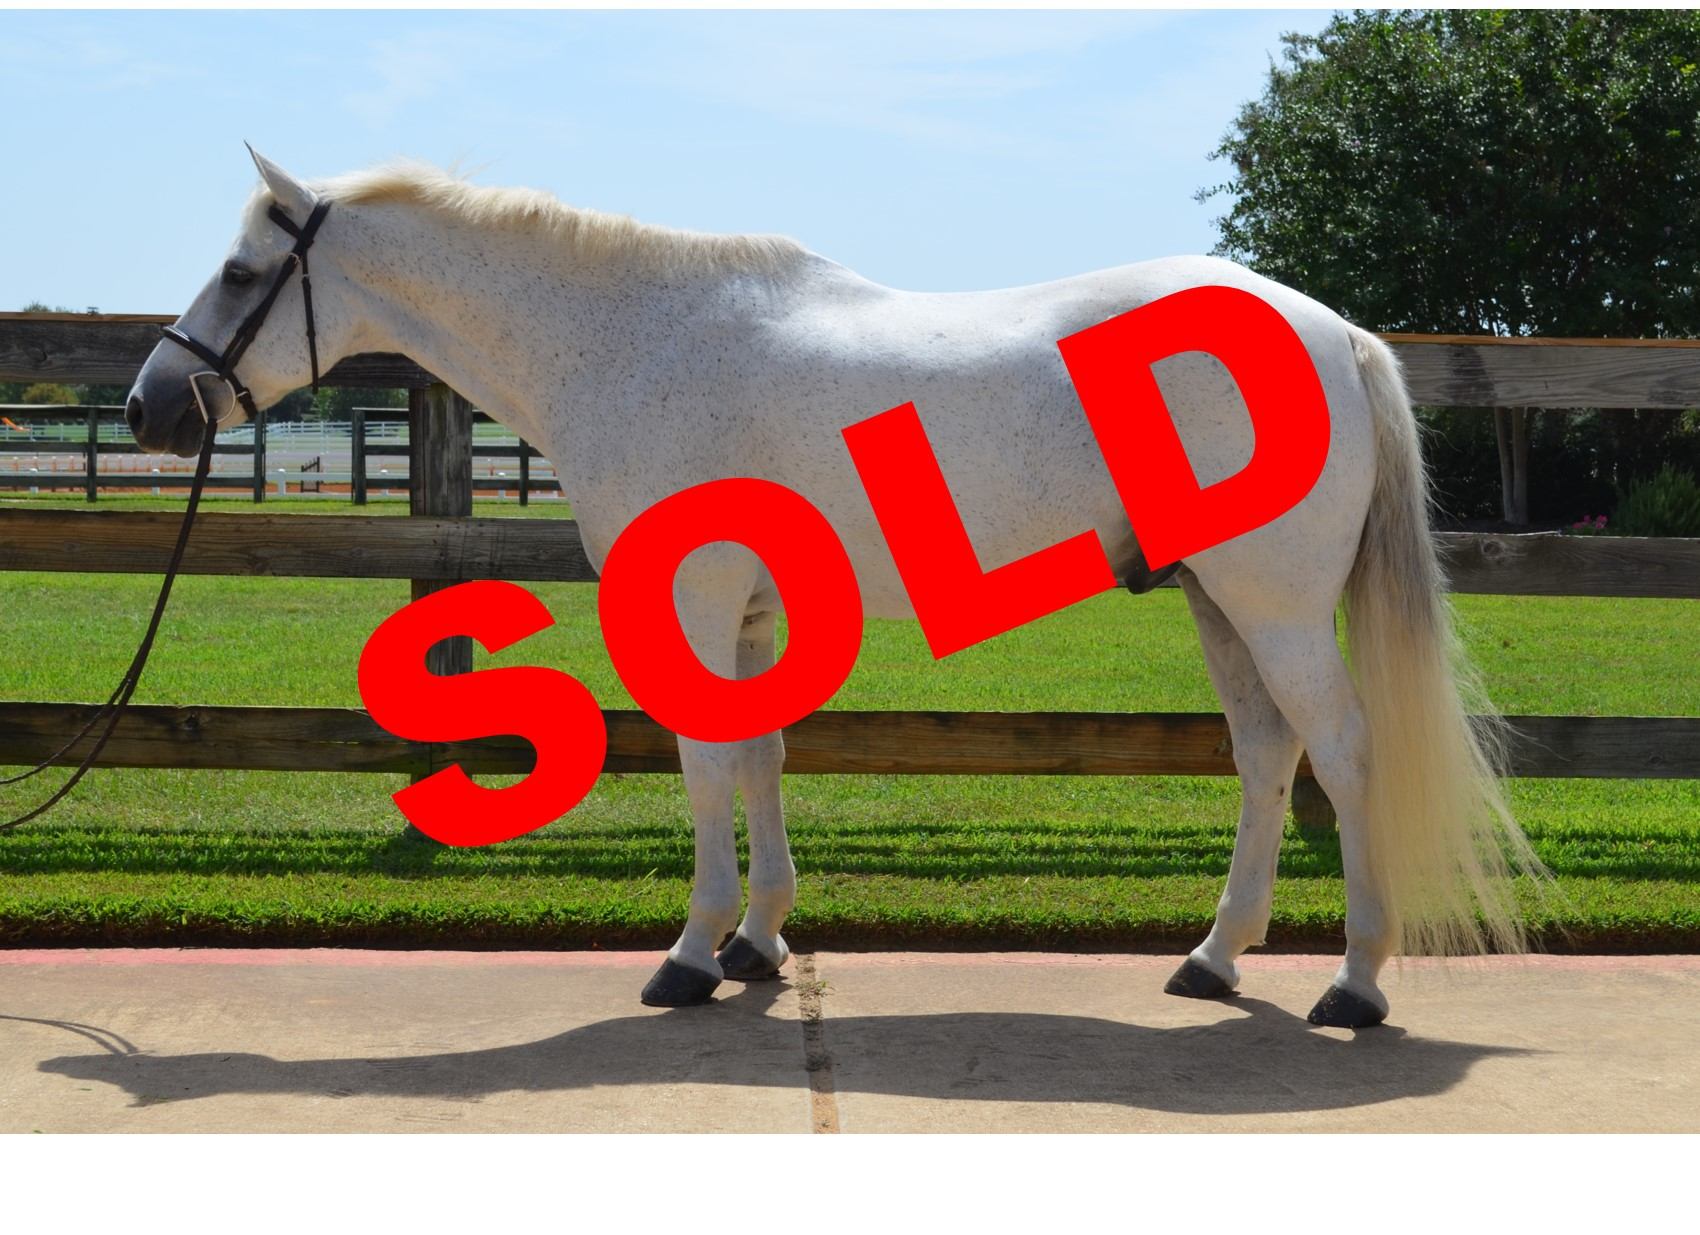
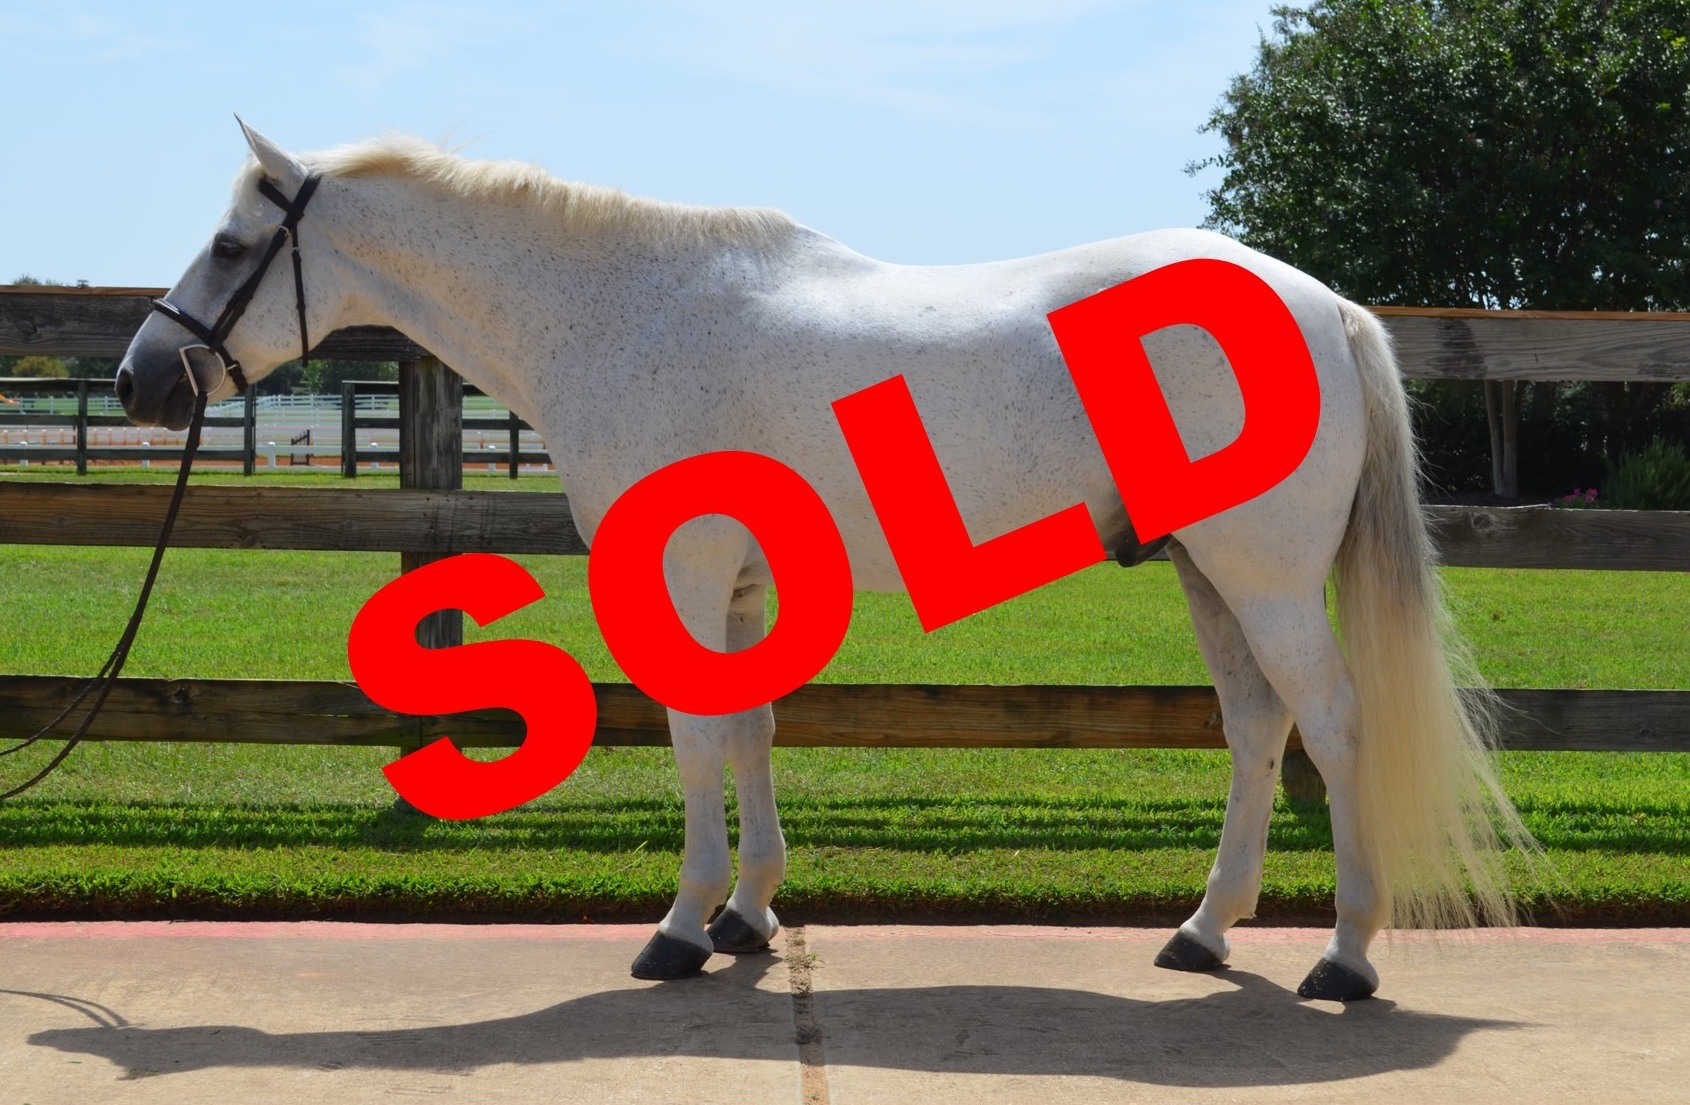
Improve Marketplace page
* Add video of Josey
* Mark Harley sold
* Remove descriptions from sold horses
* Remove whitespace from horse photos

diff --git a/marketplace.html b/marketplace.html
@@ -90,37 +90,13 @@
             </div>
         </div>
 
-        <div class="row" style="margin-bottom: 30px">
+        <div class="row">
 
             <div class="col-md-12">
                 For information, please contact Shann Cranford at
                 <a href="mailto:shann@bridlewoodequestrian.com">shann@bridlewoodequestrian.com</a> or
                 <a href="tel:817-266-6435">(817) 266-6435</a>.
                 <hr>
-            </div>
-
-            <div class="col-md-12">
-                <h2>Harlequins Romance</h2>
-                <p>
-                    Harley is as simple and straightforward as they come! Simple enough for a beginner, but well
-                    schooled enough to take a young rider through modified hunters. He makes absolutely everyone look
-                    good- we just adore this guy! He has taken his current rider from short stirrup through the modifieds
-                    and is looking for his next kid! Harley is truly a barn favorite with a lovely attitude and work
-                    ethic- he doesn't know how to say "no". He has multiple champions at the local circuit level and will
-                    hold his own at A/AA shows- he was second in the Bit o' Straw Classic at the 2016 GO Show. He is
-                    perfect for a kid looking to step up from ponies and get involved in showing. No prep at home or
-                    away, easy keeper and on the ground.
-                </p>
-            </div>
-            <div class="col-md-12">
-                <div class="thumbnail">
-                    <img class="img-responsive" src=marketplace/harley2.jpg alt="">
-                </div>
-            </div>
-            <div class="col-md-12">
-                <div class="embed-responsive embed-responsive-16by9">
-                    <iframe class="embed-responsive-item" src="https://www.youtube.com/embed/xz_iXar0F1c"></iframe>
-                </div>
             </div>
         </div>
 
@@ -138,6 +114,11 @@
             <div class="col-md-12">
                 <div class="thumbnail">
                     <img class="img-responsive" src=marketplace/josie.jpg alt="">
+                </div>
+            </div>
+            <div class="col-md-12">
+                <div class="embed-responsive embed-responsive-16by9">
+                    <iframe class="embed-responsive-item" src="https://www.youtube.com/embed/7KXS-PXTQHM"></iframe>
                 </div>
             </div>
         </div>
@@ -167,15 +148,24 @@
         </div>
         <hr/>
 
+        <div class="row" style="margin-bottom: 30px">
+
+            <div class="col-md-12">
+                <h2>Harlequins Romance</h2>
+                <p>
+                    Congratulations to Abby Bradt!  We look forward to seeing this pair in the show ring.
+                </p>
+            </div>
+            <div class="col-md-12">
+                <div class="thumbnail">
+                    <img class="img-responsive" src=marketplace/harley-sold.jpg alt="">
+                </div>
+            </div>
+        </div>
+
         <div class="row">
             <div class="col-md-12">
                 <h2>Charlie Bucket</h2>
-                <p>
-                    Charlie has been a part of our lesson program for the last several years and is looking for a kid
-                    of his own. He would excel with a spunky kid looking for something to bring along with a trainer.
-                    Charlie is very game and fun to ride and loves to jump around- very honest to his fences! He is very
-                    low maintenance and easy to have in the barn. Priced in the low-mid four figures.
-                </p>
             </div>
             <div class="col-md-12">
                 <div class="thumbnail">
@@ -189,11 +179,6 @@
         <div class="row">
             <div class="col-md-12">
                 <h2>Silver Star's Jumpin Jack</h2>
-                <p>
-                    2002 large Welsh pony. "Jack" is a kind, in your pocket pony suitable for canter crossrails
-                    through 2'6". He's the same pony away as at home, great to trail ride and play around on, and cute
-                    enough to show. Everyone loves him, he just needs his on kid!
-                </p>
             </div>
             <div class="col-md-12">
                 <div class="thumbnail">
